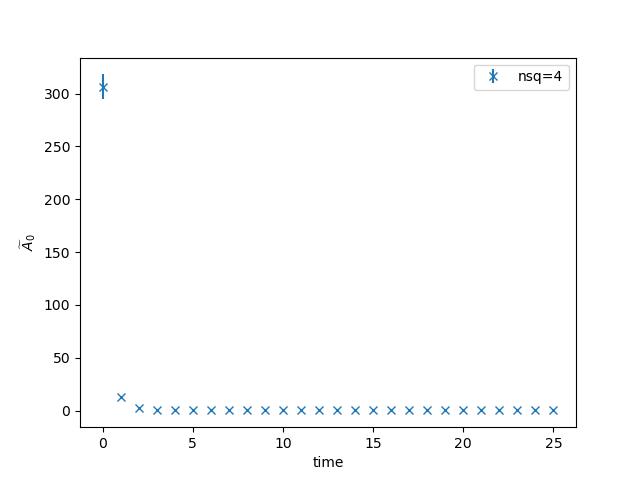
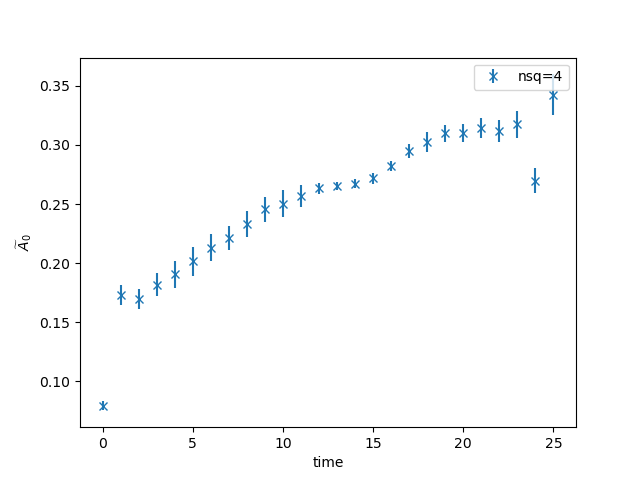
nsq5 without conf weird

diff --git a/M2/A0-Av-improved.py b/M2/A0-Av-improved.py
@@ -46,7 +46,7 @@ def sum_with_exceptions_jack(lst,j,i):
             total += jack(num[j],i)  # Add other elements
     return total/len(lst)
 #########decide here which nsq
-nsq=5
+nsq=4
 ##########
 
 
